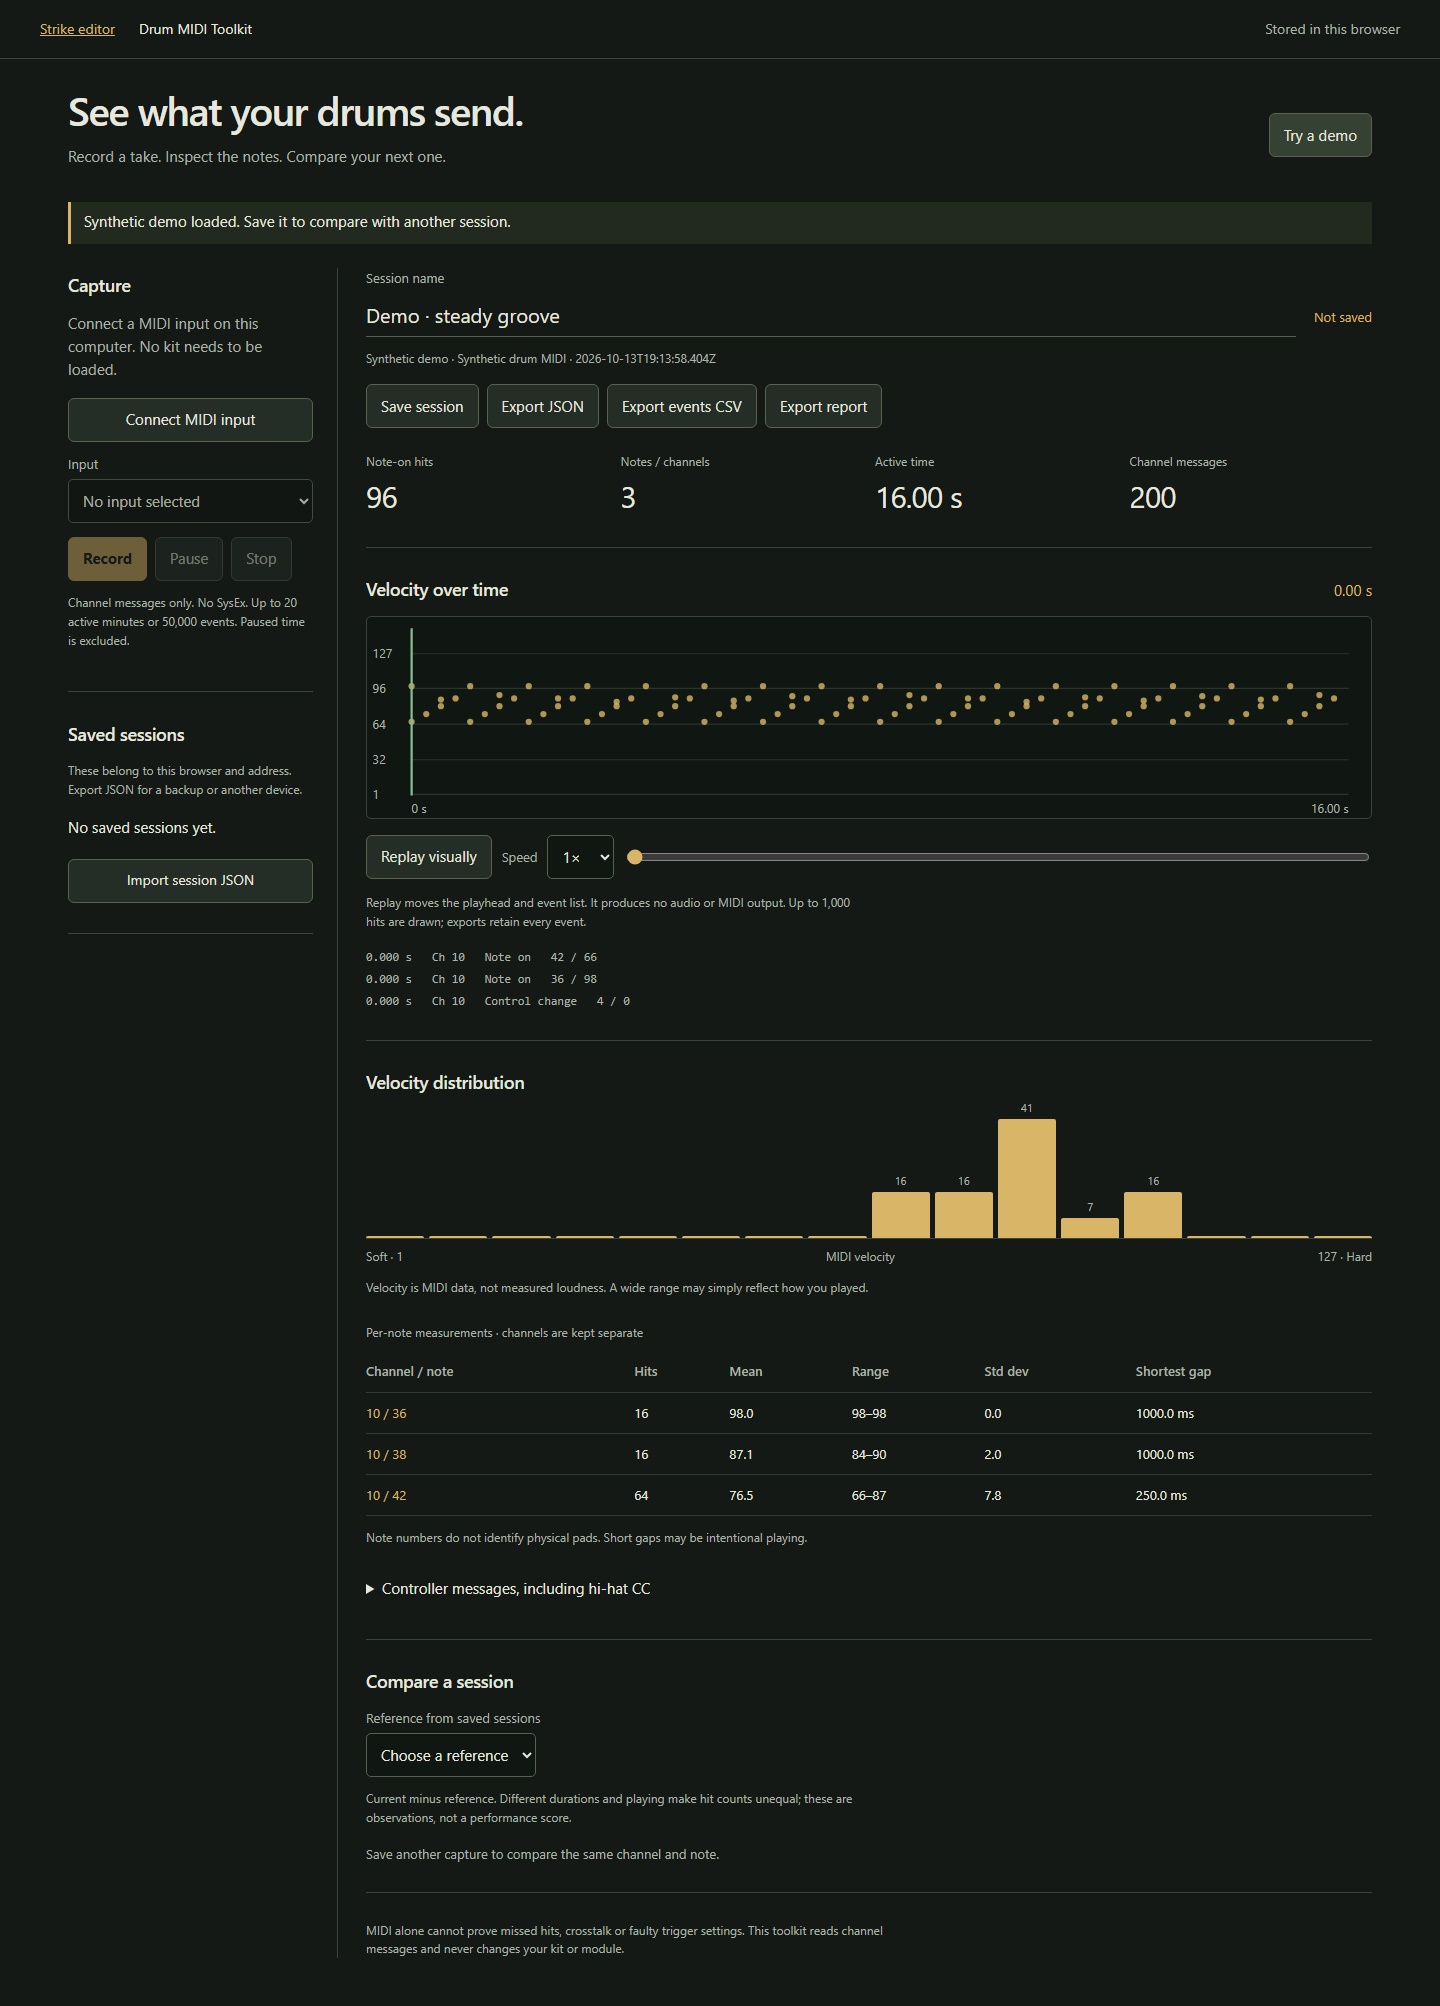
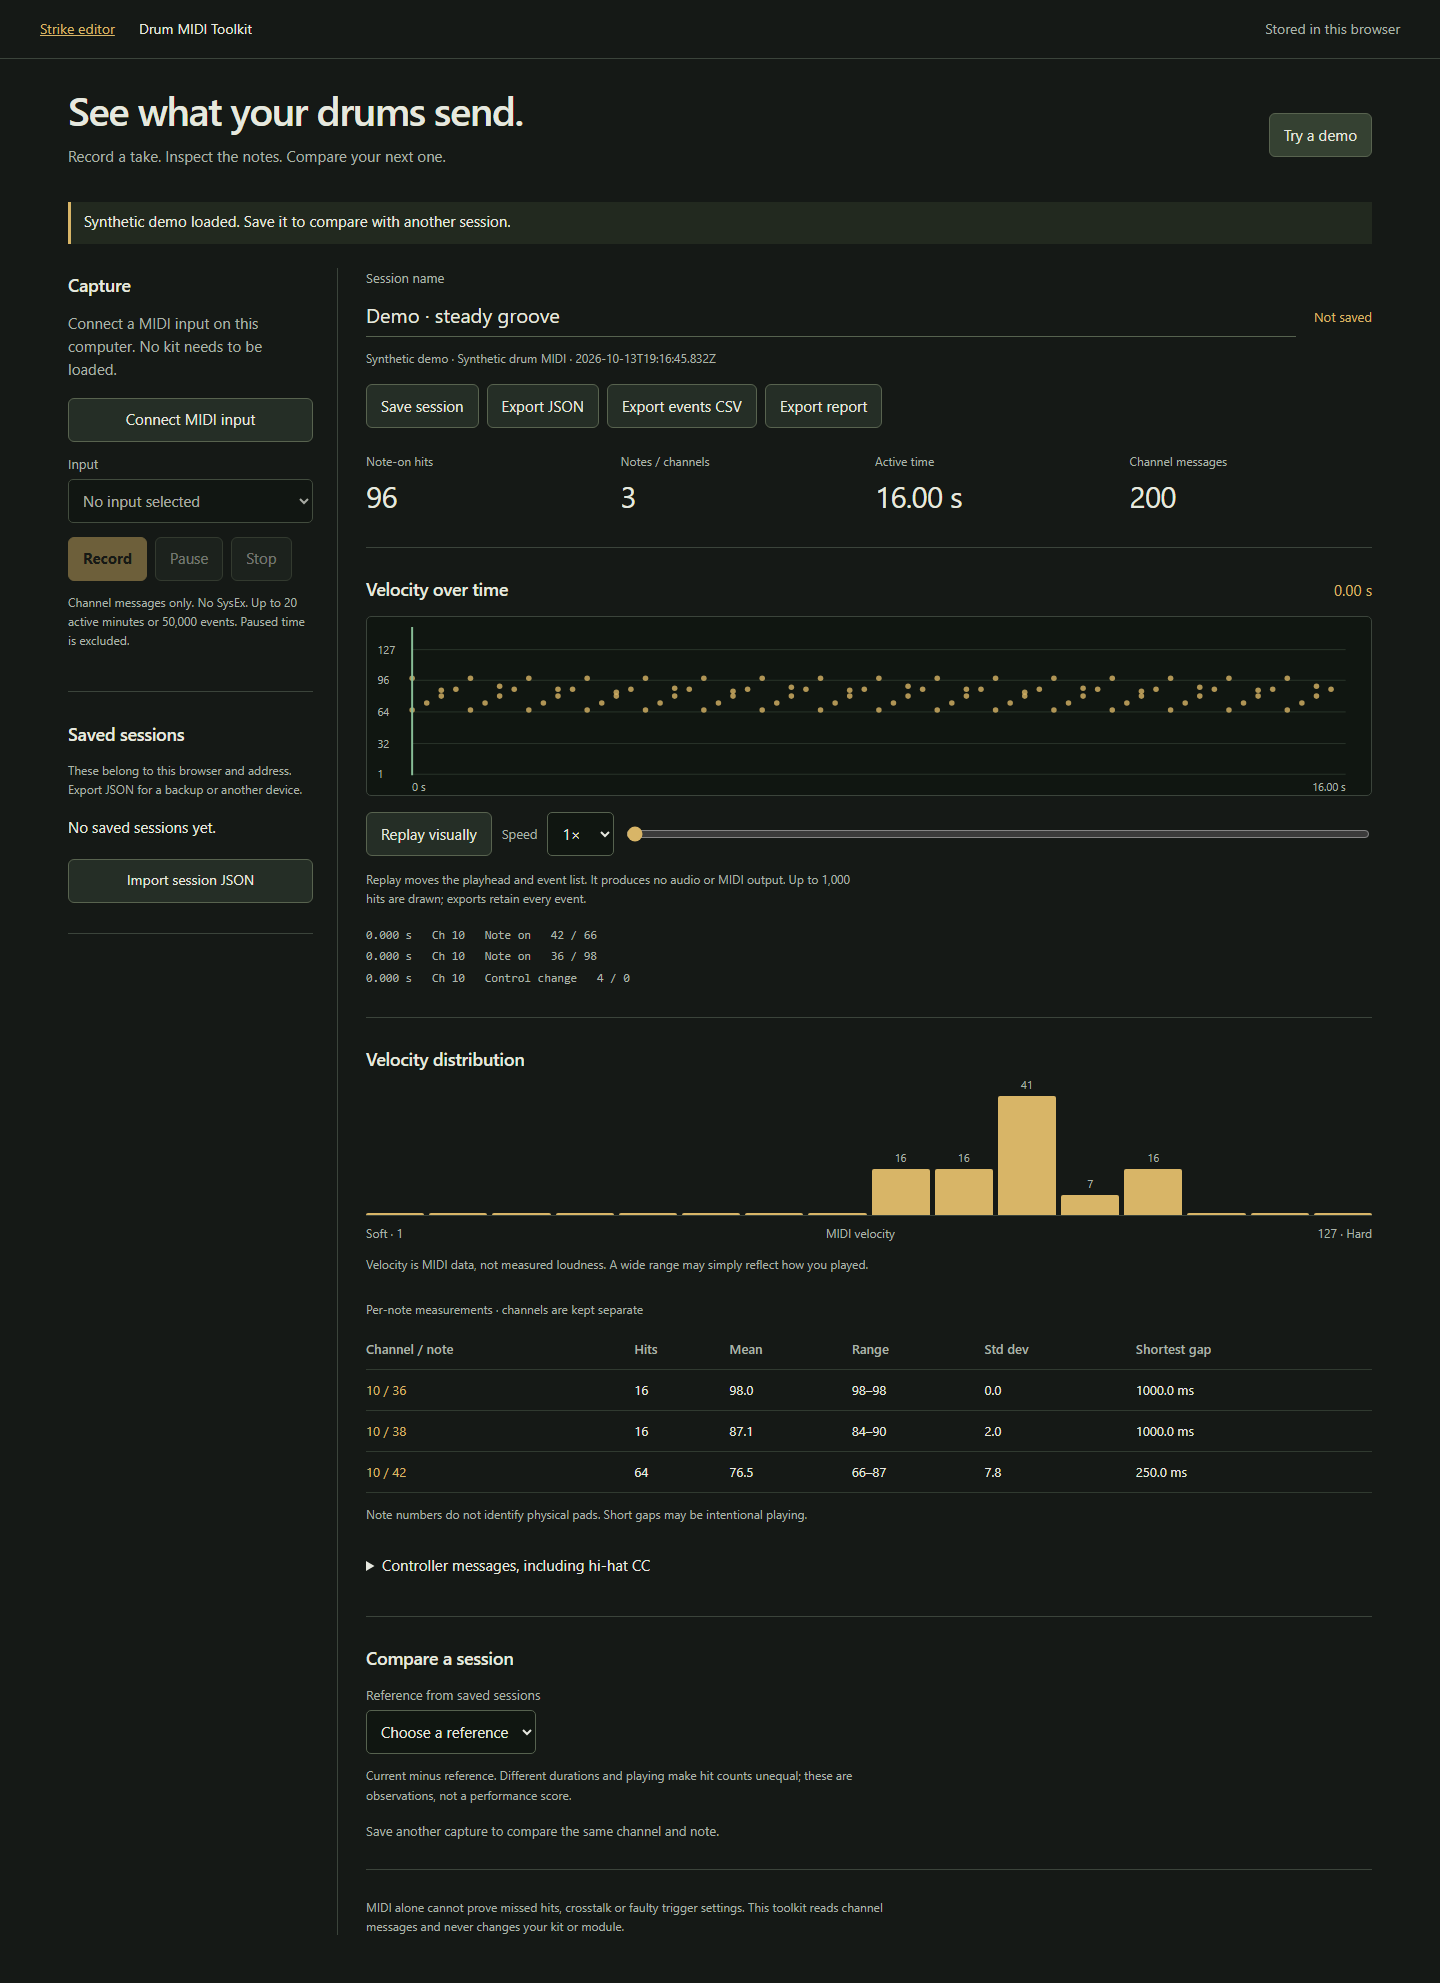
Keep MIDI timeline labels readable on mobile

diff --git a/web/midi-toolkit/styles.css b/web/midi-toolkit/styles.css
@@ -1,5 +1,5 @@
 :root{color-scheme:dark;--bg:#151916;--surface:#1c211e;--line:#3b443b;--text:#e6e8df;--muted:#aab3a8;--brass:#d8b567;--green:#87bc96;--danger:#efa18f}
-*{box-sizing:border-box}body{margin:0;background:var(--bg);color:var(--text);font:15px/1.55 system-ui,-apple-system,"Segoe UI",sans-serif}header{display:flex;align-items:center;gap:24px;padding:18px max(24px,calc((100vw - 1360px)/2));border-bottom:1px solid var(--line);font-size:14px}a{color:var(--brass)}header .local{margin-left:auto;color:var(--muted)}main{max-width:1360px;margin:auto;padding:28px 28px 48px}h1{font-size:clamp(26px,3vw,40px);line-height:1.15;font-weight:620;letter-spacing:-.035em;margin:0 0 12px}h2{font-size:18px;font-weight:620;letter-spacing:-.015em;margin:0 0 12px}p{margin:6px 0 16px;max-width:78ch;color:var(--muted)}.intro{display:flex;justify-content:space-between;align-items:center;gap:20px;margin-bottom:18px}.intro button{flex-shrink:0}button,input,select{font:inherit}button,.file-button{min-height:44px;border:1px solid #58634f;border-radius:6px;background:#252e26;color:var(--text);padding:9px 14px;cursor:pointer;text-align:center}button:hover:not(:disabled),.file-button:hover{background:#354132}button:disabled{opacity:.45;cursor:default}.primary{background:var(--brass);color:#191b15;border-color:var(--brass);font-weight:650}.primary:hover:not(:disabled){background:#e8c988}input,select{min-height:44px;min-width:0;max-width:100%;border:1px solid #56624f;background:#101611;color:var(--text);border-radius:5px;padding:9px 10px}label{display:block;font-size:13px;color:var(--muted);margin:12px 0 5px}button:focus-visible,a:focus-visible,input:focus-visible,select:focus-visible,summary:focus-visible,.file-button:focus-within{outline:3px solid var(--brass);outline-offset:3px}#status{border-left:3px solid var(--brass);padding:8px 13px;background:#22291f;min-height:42px;margin-bottom:24px;max-width:none;color:var(--text)}#status.error{border-color:var(--danger);color:var(--danger)}.workbench{display:grid;grid-template-columns:270px minmax(0,1fr);gap:28px}aside{border-right:1px solid var(--line);padding-right:24px}aside section{padding:4px 0 25px;margin-bottom:25px;border-bottom:1px solid var(--line)}aside select,aside #connect{width:100%}.buttons{display:flex;gap:8px;flex-wrap:wrap;margin-top:14px}.fine{font-size:12px;line-height:1.6;margin-top:12px}article{min-width:0}article>section{margin-bottom:28px;padding-bottom:28px;border-bottom:1px solid var(--line)}.take-heading{display:flex;align-items:end;gap:18px}.name-field{flex:1;min-width:0}.name-field input{font-size:20px;width:100%;background:transparent;padding:6px 0;border-width:0 0 1px;border-radius:0}.name-field label{margin-top:0}.state{color:var(--brass);font-size:13px;white-space:nowrap;padding-bottom:10px}.metrics{display:grid;grid-template-columns:repeat(4,minmax(0,1fr));gap:12px;margin:24px 0 0}.metrics dt{font-size:12px;color:var(--muted)}.metrics dd{margin:2px 0 0;font-size:30px;font-variant-numeric:tabular-nums;letter-spacing:-.025em}.section-heading{display:flex;align-items:baseline;justify-content:space-between;gap:12px}.section-heading span{font-variant-numeric:tabular-nums;color:var(--brass)}#timeline{display:block;width:100%;background:#101611;border:1px solid var(--line);border-radius:5px}.replay{display:flex;align-items:center;gap:10px;flex-wrap:wrap;margin-top:14px}.replay label{margin:0}.replay input{flex:1;min-width:100px;accent-color:var(--brass);padding:0}.histogram{height:130px;display:grid;grid-template-columns:repeat(16,1fr);align-items:end;gap:5px;padding-top:10px;border-bottom:1px solid var(--line)}.histogram>div{background:var(--brass);min-height:2px;position:relative;border-radius:2px 2px 0 0}.histogram span{position:absolute;font-size:11px;top:-20px;width:100%;text-align:center;color:var(--muted)}.axis{display:flex;justify-content:space-between;font-size:12px;color:var(--muted);margin-top:8px}.table-scroll{overflow-x:auto}table{border-collapse:collapse;width:100%;font-size:13px;text-align:left;font-variant-numeric:tabular-nums}caption{text-align:left;color:var(--muted);font-size:12px;padding:10px 0}th,td{padding:10px 12px 10px 0;border-bottom:1px solid #303a30;white-space:nowrap}th{color:var(--muted);font-weight:500}td:first-child{color:var(--brass)}details{margin-top:20px}summary{cursor:pointer;min-height:44px;padding:10px 0}.event-list{font:12px/1.8 ui-monospace,Consolas,monospace;color:var(--muted);white-space:pre-wrap;overflow-wrap:anywhere;min-height:54px}.session{margin:10px 0;border-bottom:1px solid var(--line);padding-bottom:12px}.session>button:first-child{display:block;width:100%;text-align:left;overflow-wrap:anywhere}.session .delete{font-size:12px;margin-top:5px;background:transparent;color:var(--muted)}.session small{display:block;margin-top:4px;color:var(--muted)}.file-button{display:block;margin-top:20px;color:var(--text);font-size:14px}#import{position:absolute;width:1px;height:1px;min-height:0;opacity:0;padding:0}#comparison{font-size:13px;color:var(--muted);overflow-x:auto}.limits{font-size:12px;color:var(--muted);max-width:80ch}dialog{max-width:min(460px,calc(100vw - 32px));border:1px solid var(--line);border-radius:10px;background:var(--surface);padding:24px;color:var(--text)}dialog::backdrop{background:#000a}.sr-only{position:absolute;width:1px;height:1px;overflow:hidden;clip-path:inset(50%)}
+*{box-sizing:border-box}body{margin:0;background:var(--bg);color:var(--text);font:15px/1.55 system-ui,-apple-system,"Segoe UI",sans-serif}header{display:flex;align-items:center;gap:24px;padding:18px max(24px,calc((100vw - 1360px)/2));border-bottom:1px solid var(--line);font-size:14px}a{color:var(--brass)}header .local{margin-left:auto;color:var(--muted)}main{max-width:1360px;margin:auto;padding:28px 28px 48px}h1{font-size:clamp(26px,3vw,40px);line-height:1.15;font-weight:620;letter-spacing:-.035em;margin:0 0 12px}h2{font-size:18px;font-weight:620;letter-spacing:-.015em;margin:0 0 12px}p{margin:6px 0 16px;max-width:78ch;color:var(--muted)}.intro{display:flex;justify-content:space-between;align-items:center;gap:20px;margin-bottom:18px}.intro button{flex-shrink:0}button,input,select{font:inherit}button,.file-button{min-height:44px;border:1px solid #58634f;border-radius:6px;background:#252e26;color:var(--text);padding:9px 14px;cursor:pointer;text-align:center}button:hover:not(:disabled),.file-button:hover{background:#354132}button:disabled{opacity:.45;cursor:default}.primary{background:var(--brass);color:#191b15;border-color:var(--brass);font-weight:650}.primary:hover:not(:disabled){background:#e8c988}input,select{min-height:44px;min-width:0;max-width:100%;border:1px solid #56624f;background:#101611;color:var(--text);border-radius:5px;padding:9px 10px}label{display:block;font-size:13px;color:var(--muted);margin:12px 0 5px}button:focus-visible,a:focus-visible,input:focus-visible,select:focus-visible,summary:focus-visible,.file-button:focus-within{outline:3px solid var(--brass);outline-offset:3px}#status{border-left:3px solid var(--brass);padding:8px 13px;background:#22291f;min-height:42px;margin-bottom:24px;max-width:none;color:var(--text)}#status.error{border-color:var(--danger);color:var(--danger)}.workbench{display:grid;grid-template-columns:270px minmax(0,1fr);gap:28px}aside{border-right:1px solid var(--line);padding-right:24px}aside section{padding:4px 0 25px;margin-bottom:25px;border-bottom:1px solid var(--line)}aside select,aside #connect{width:100%}.buttons{display:flex;gap:8px;flex-wrap:wrap;margin-top:14px}.fine{font-size:12px;line-height:1.6;margin-top:12px}article{min-width:0}article>section{margin-bottom:28px;padding-bottom:28px;border-bottom:1px solid var(--line)}.take-heading{display:flex;align-items:end;gap:18px}.name-field{flex:1;min-width:0}.name-field input{font-size:20px;width:100%;background:transparent;padding:6px 0;border-width:0 0 1px;border-radius:0}.name-field label{margin-top:0}.state{color:var(--brass);font-size:13px;white-space:nowrap;padding-bottom:10px}.metrics{display:grid;grid-template-columns:repeat(4,minmax(0,1fr));gap:12px;margin:24px 0 0}.metrics dt{font-size:12px;color:var(--muted)}.metrics dd{margin:2px 0 0;font-size:30px;font-variant-numeric:tabular-nums;letter-spacing:-.025em}.section-heading{display:flex;align-items:baseline;justify-content:space-between;gap:12px}.section-heading span{font-variant-numeric:tabular-nums;color:var(--brass)}#timeline{display:block;width:100%;height:180px;background:#101611;border:1px solid var(--line);border-radius:5px}.replay{display:flex;align-items:center;gap:10px;flex-wrap:wrap;margin-top:14px}.replay label{margin:0}.replay input{flex:1;min-width:100px;accent-color:var(--brass);padding:0}.histogram{height:130px;display:grid;grid-template-columns:repeat(16,1fr);align-items:end;gap:5px;padding-top:10px;border-bottom:1px solid var(--line)}.histogram>div{background:var(--brass);min-height:2px;position:relative;border-radius:2px 2px 0 0}.histogram span{position:absolute;font-size:11px;top:-20px;width:100%;text-align:center;color:var(--muted)}.axis{display:flex;justify-content:space-between;font-size:12px;color:var(--muted);margin-top:8px}.table-scroll{overflow-x:auto}table{border-collapse:collapse;width:100%;font-size:13px;text-align:left;font-variant-numeric:tabular-nums}caption{text-align:left;color:var(--muted);font-size:12px;padding:10px 0}th,td{padding:10px 12px 10px 0;border-bottom:1px solid #303a30;white-space:nowrap}th{color:var(--muted);font-weight:500}td:first-child{color:var(--brass)}details{margin-top:20px}summary{cursor:pointer;min-height:44px;padding:10px 0}.event-list{font:12px/1.8 ui-monospace,Consolas,monospace;color:var(--muted);white-space:pre-wrap;overflow-wrap:anywhere;min-height:54px}.session{margin:10px 0;border-bottom:1px solid var(--line);padding-bottom:12px}.session>button:first-child{display:block;width:100%;text-align:left;overflow-wrap:anywhere}.session .delete{font-size:12px;margin-top:5px;background:transparent;color:var(--muted)}.session small{display:block;margin-top:4px;color:var(--muted)}.file-button{display:block;margin-top:20px;color:var(--text);font-size:14px}#import{position:absolute;width:1px;height:1px;min-height:0;opacity:0;padding:0}#comparison{font-size:13px;color:var(--muted);overflow-x:auto}.limits{font-size:12px;color:var(--muted);max-width:80ch}dialog{max-width:min(460px,calc(100vw - 32px));border:1px solid var(--line);border-radius:10px;background:var(--surface);padding:24px;color:var(--text)}dialog::backdrop{background:#000a}.sr-only{position:absolute;width:1px;height:1px;overflow:hidden;clip-path:inset(50%)}
 @media(max-width:850px){.workbench{grid-template-columns:220px minmax(0,1fr);gap:20px}main{padding:22px 20px}.metrics{grid-template-columns:repeat(2,1fr)}.take-heading{align-items:start;flex-direction:column;gap:8px}.name-field{width:100%}}
 @media(max-width:620px){header{padding:14px 16px;gap:14px;flex-wrap:wrap}header .local{margin-left:0;width:100%;font-size:12px}.intro{align-items:start;flex-direction:column;gap:0}.workbench{display:flex;flex-direction:column}.workbench aside{border:0;padding:0;display:flex;flex-direction:column}aside section{margin-bottom:8px;padding-bottom:18px}aside section:nth-child(2){order:2}.metrics dd{font-size:26px}main{padding:22px 16px}.histogram{gap:3px}.histogram span{font-size:9px}#sessions{max-height:240px;overflow:auto}.replay input{flex-basis:100%}}
 @media(prefers-reduced-motion:reduce){*{scroll-behavior:auto}}

diff --git a/web/midi-toolkit/app.js b/web/midi-toolkit/app.js
@@ -176,7 +176,7 @@ function renderComparison() {
 }
 function renderPlayhead() {
   $('seek').value=String(playhead); $('cursor-time').textContent=(playhead/1000).toFixed(2)+' s';
-  const line=$('play-line'); if (line) { const x=40+840*playhead/Math.max(1,current.durationMs); line.setAttribute('x1',x); line.setAttribute('x2',x); }
+  const line=$('play-line'); if (line) { const x=40+($('timeline').viewBox.baseVal.width-60)*playhead/Math.max(1,current.durationMs); line.setAttribute('x1',x); line.setAttribute('x2',x); }
   const events=current.events.filter(e => e.t <= playhead).slice(-6);
   $('replay-events').textContent=events.length ? events.map(e => {
     const m=message(e.data); return `${(e.t/1000).toFixed(3)} s   Ch ${m.channel}   ${m.type}   ${e.data.slice(1).join(' / ')}`;
@@ -188,16 +188,18 @@ function render() {
   $('notes').textContent=String(stats.notes.length); $('duration').textContent=(current.durationMs/1000).toFixed(2)+' s';
   $('origin').textContent=current.events.length ? `${current.synthetic ? 'Synthetic demo · ' : ''}${current.source} · ${current.createdAt}` : 'No events yet. Record an input, import a JSON session, or try the demo.';
   const svg=$('timeline'); svg.replaceChildren(); const ns='http://www.w3.org/2000/svg';
+  const width=Math.max(260,svg.clientWidth), right=width-20;
+  svg.setAttribute('viewBox',`0 0 ${width} 180`);
   const add=(tag,attrs) => { const e=document.createElementNS(ns,tag); for (const [k,v] of Object.entries(attrs)) e.setAttribute(k,String(v)); svg.append(e); return e; };
   for (const v of [1,32,64,96,127]) {
-    add('line',{x1:40,x2:880,y1:160-v,y2:160-v,stroke:'#29352b','stroke-width':1});
+    add('line',{x1:40,x2:right,y1:160-v,y2:160-v,stroke:'#29352b','stroke-width':1});
     add('text',{x:5,y:164-v,fill:'#aab3a8','font-size':11}).textContent=v;
   }
   add('text',{x:40,y:176,fill:'#aab3a8','font-size':11}).textContent='0 s';
-  add('text',{x:880,y:176,fill:'#aab3a8','font-size':11,'text-anchor':'end'}).textContent=(current.durationMs/1000).toFixed(2)+' s';
+  add('text',{x:right,y:176,fill:'#aab3a8','font-size':11,'text-anchor':'end'}).textContent=(current.durationMs/1000).toFixed(2)+' s';
   const hits=current.events.filter(e => message(e.data)?.type === 'Note on'), stride=Math.max(1,Math.ceil(hits.length/1000));
   for (let i=0;i<hits.length;i+=stride) {
-    const dot=add('circle',{cx:40+hits[i].t/Math.max(1,current.durationMs)*840,cy:160-hits[i].data[2],r:2.8,fill:'#d8b567',opacity:.8});
+    const dot=add('circle',{cx:40+hits[i].t/Math.max(1,current.durationMs)*(right-40),cy:160-hits[i].data[2],r:2.8,fill:'#d8b567',opacity:.8});
     const title=document.createElementNS(ns,'title'); title.textContent=`Ch ${(hits[i].data[0]&15)+1}, note ${hits[i].data[1]}, velocity ${hits[i].data[2]} at ${(hits[i].t/1000).toFixed(3)} s`; dot.append(title);
   }
   add('line',{id:'play-line',x1:40,x2:40,y1:10,y2:160,stroke:'#87bc96','stroke-width':2});
@@ -217,6 +219,7 @@ setInterval(() => {
   if (playing) { playhead=Math.min(current.durationMs,playFrom+(now-playStart)*Number($('speed').value)); renderPlayhead(); if (playhead >= current.durationMs) stopReplay(); }
   if (drawNeeded && now-lastDraw >= 500) { lastDraw=now; render(); }
 },100);
+window.addEventListener('resize',() => { drawNeeded=true; });
 window.addEventListener('beforeunload',e => { if (dirty || active()) { e.preventDefault(); e.returnValue=''; } });
 const liveAvailable=!!navigator.requestMIDIAccess && window.isSecureContext;
 $('support').textContent=liveAvailable ? 'Connect a MIDI input on this computer. No kit needs to be loaded.' : 'Live MIDI is unavailable in this browser/context. Capture on the USB computer using a supporting browser at localhost; import JSON here to inspect it. Wi-Fi does not forward host MIDI.';
